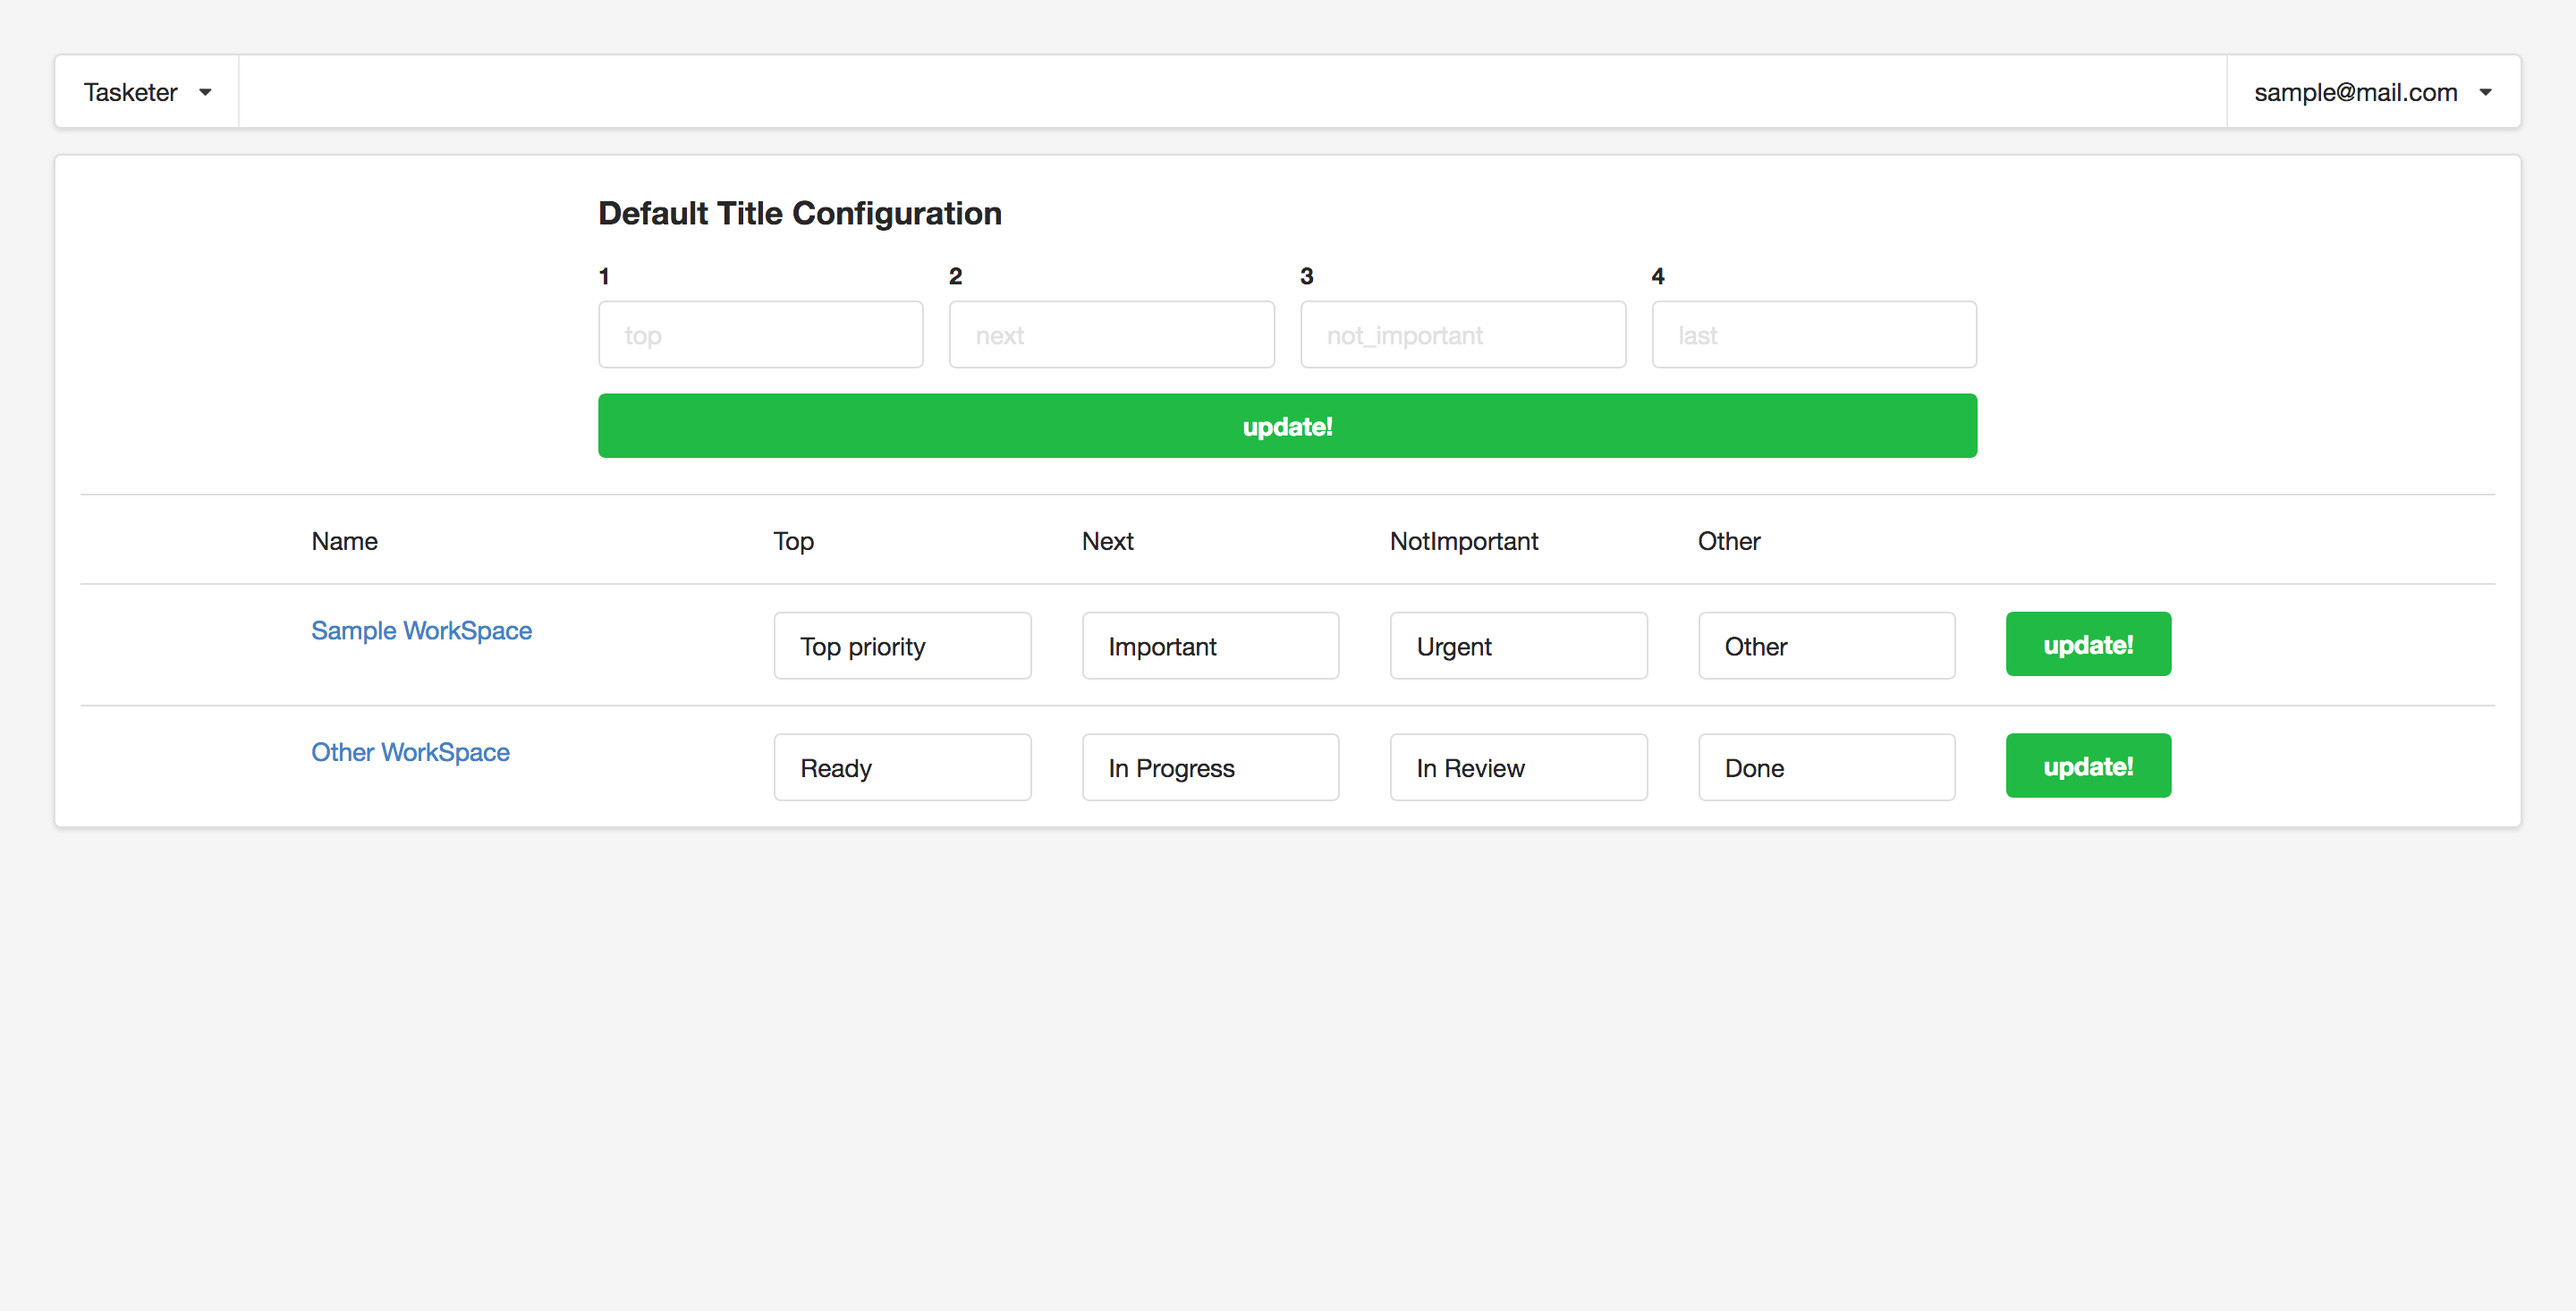
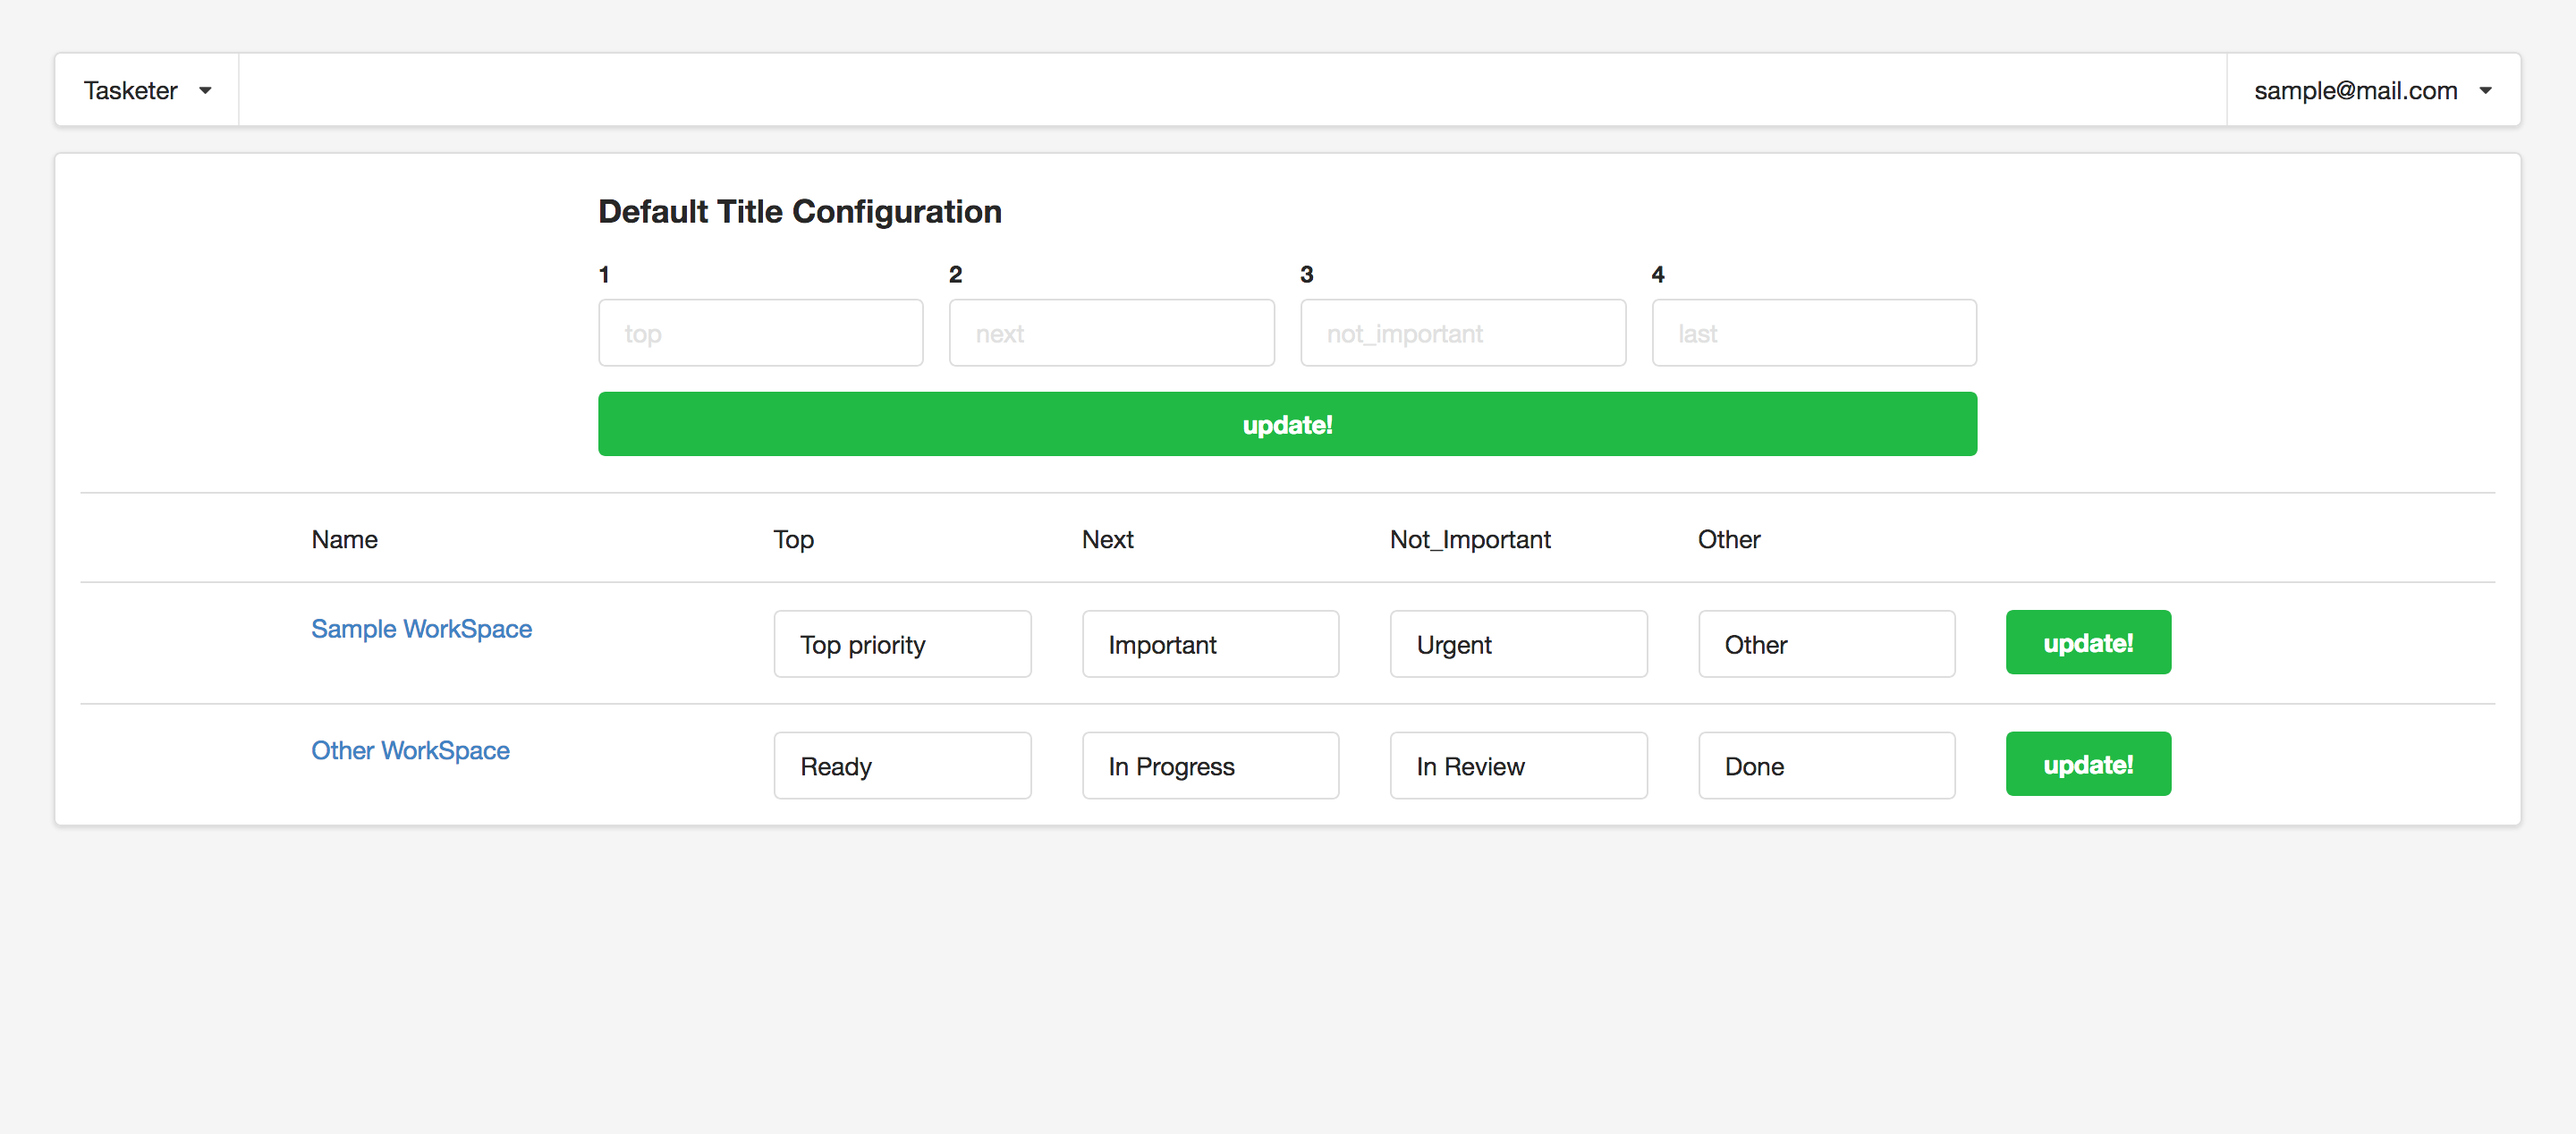
文言修正

diff --git a/db/fixtures/01_service_default_title.rb b/db/fixtures/01_service_default_title.rb
@@ -5,6 +5,6 @@ ServiceDefaultTitle.seed do |s|
   s.type = 'ServiceDefaultTitle'
   s.seg_first = 'Top'
   s.seg_second = 'Next'
-  s.seg_third = 'NotImportant'
+  s.seg_third = 'Not_Important'
   s.seg_last = 'Other'
 end
